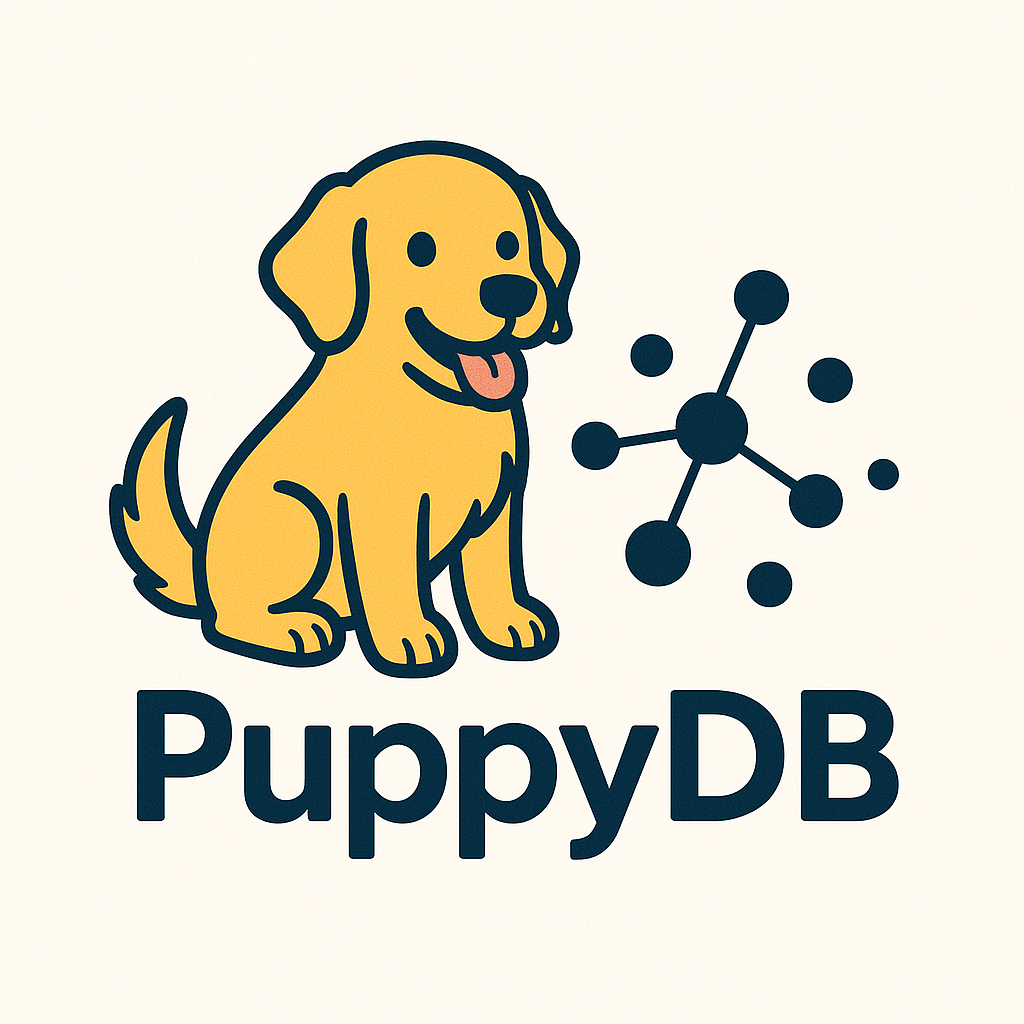
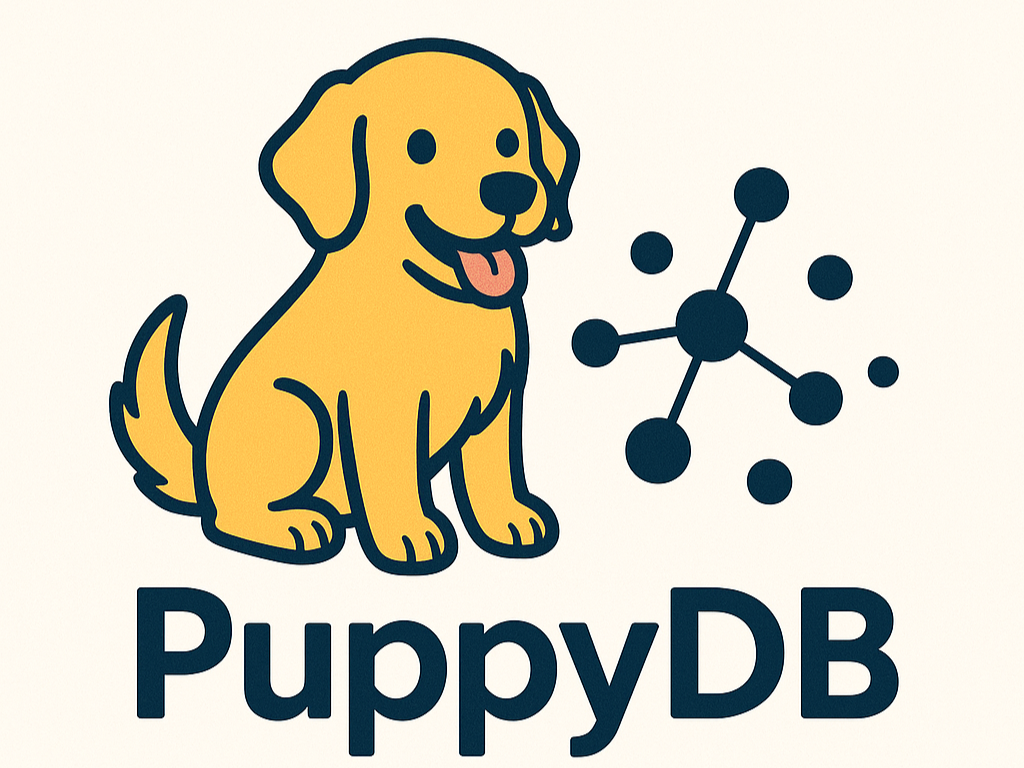
updated image size and project tag

Changed region(s): [[0.0938, 0.0312, 0.875, 1.0], [0.7812, 0.3125, 0.8438, 0.4062], [0.5938, 0.2812, 0.6562, 0.375]]

diff --git a/index.html b/index.html
@@ -696,7 +696,7 @@
           </div>
 
           <ul class="project-list">
-             <li class="project-item  active" data-filter-item data-category="NLP/LLMs">
+             <li class="project-item  active" data-filter-item data-category="nlp/llms">
               <a href="https://github.com/sarabesh/PuppyDB">
 
                 <figure class="project-img">
